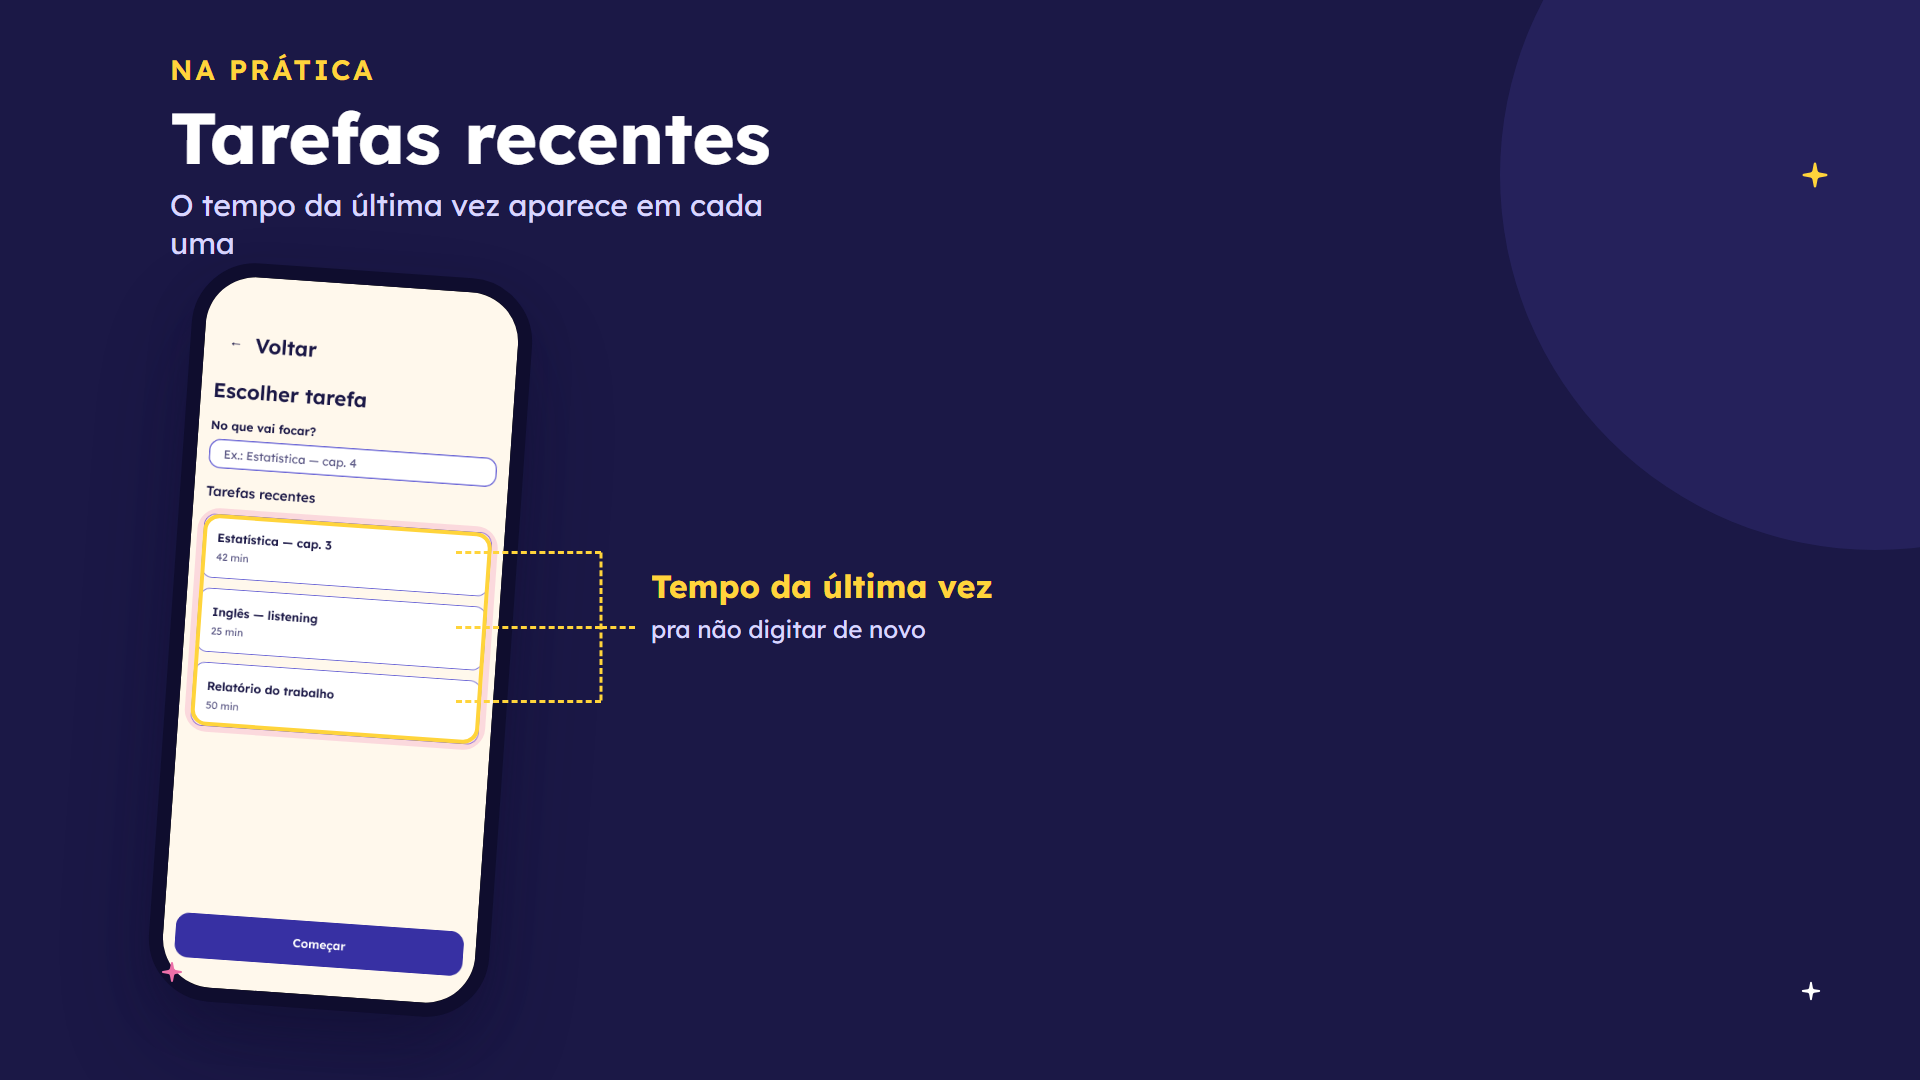
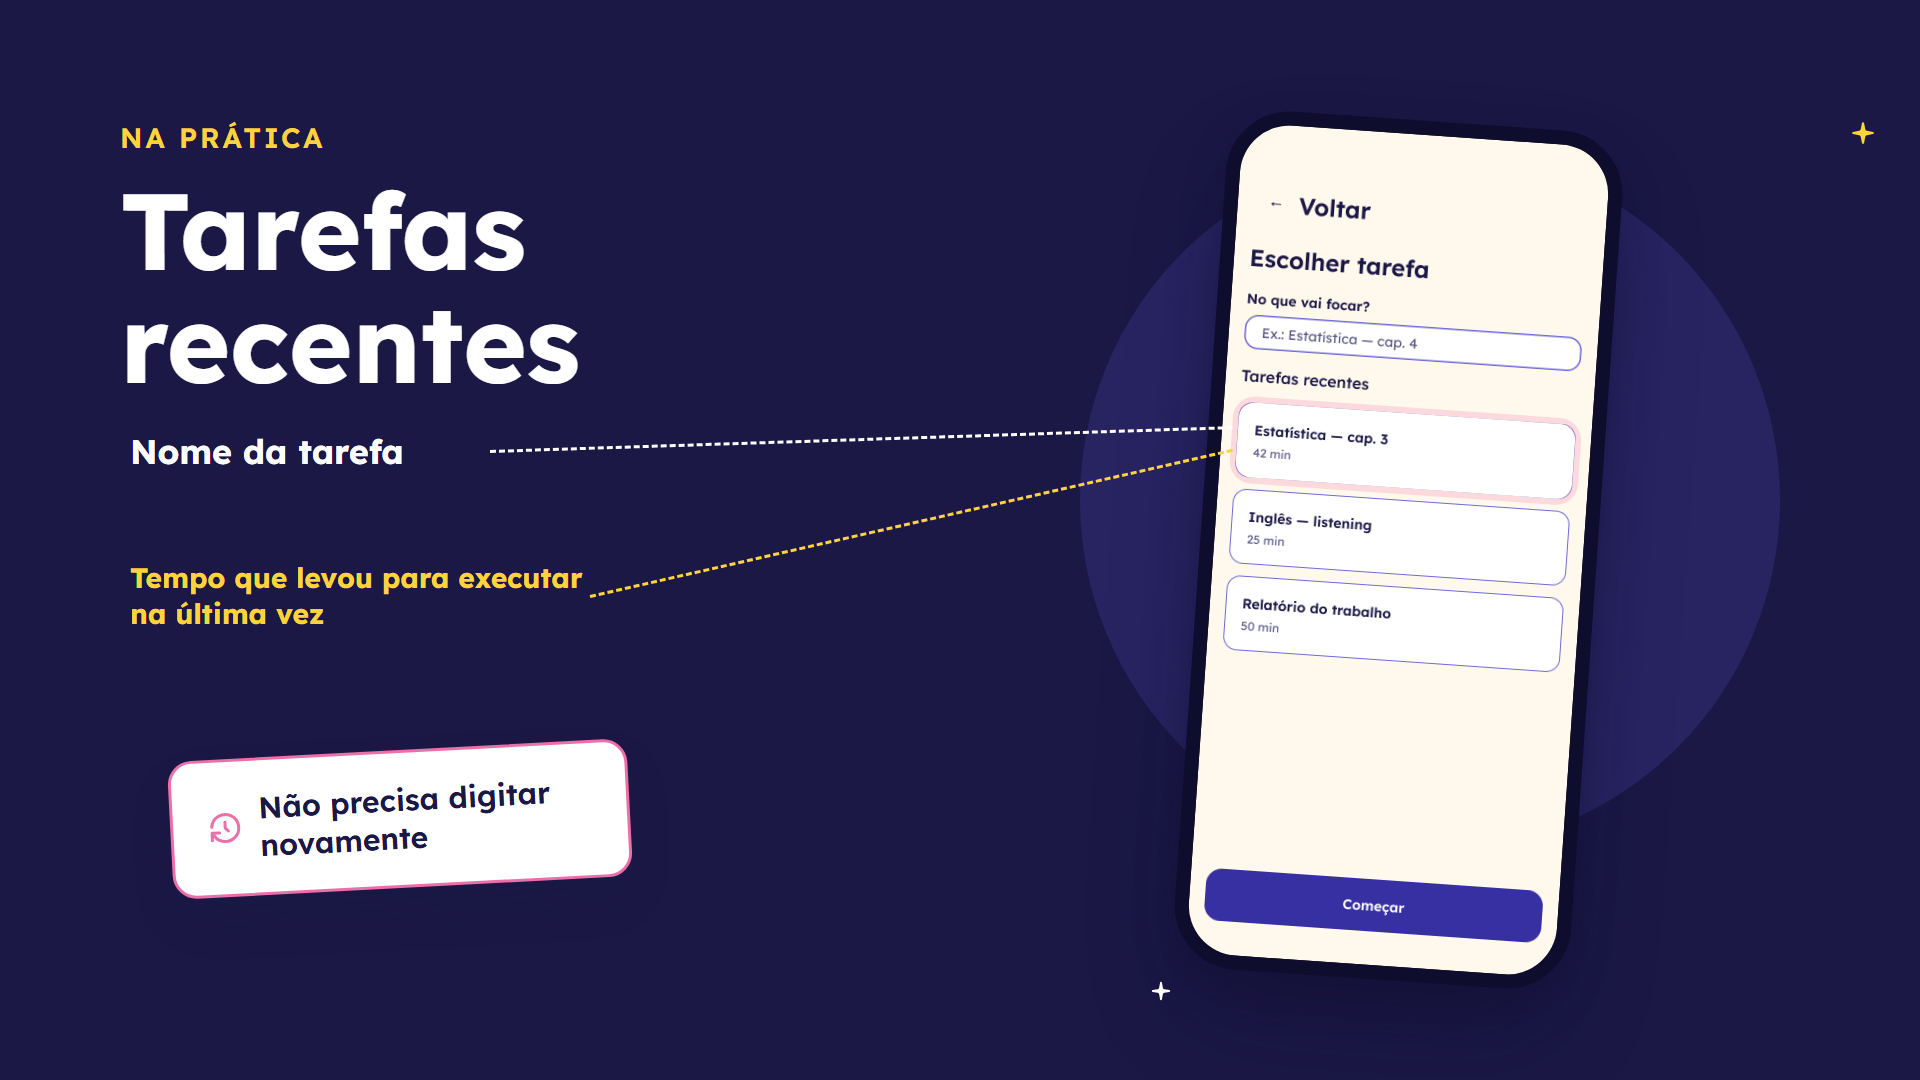
Reequilibra o slide da tela 03 e simplifica os indicadores
Layout invertido pro mesmo padrao do slide-06 (titulo a esquerda,
celular a direita), em vez de tudo amontoado do lado esquerdo.
Indicadores reduzidos a dois: "Nome da tarefa" e "Tempo que levou
para executar na ultima vez", cada um com sua propria seta. A frase
"Nao precisa digitar novamente" virou um balao flutuante a parte
(estilo do card "Retomar ->" do slide-06), sem seta.

Changed region(s): [[0.5625, 0.0917, 0.9375, 0.9167], [0.0625, 0.0306, 0.5312, 0.9472], [0.9375, 0.1528, 0.9688, 0.1833]]

diff --git a/video-editor/slides-src/anotar_tela02.py b/video-editor/slides-src/anotar_tela02.py
@@ -253,59 +253,48 @@ def build_slide_continuar_completo():
 # 5) Tela 03 - Escolher tarefa: tarefas recentes + indicadores de tempo
 # ---------------------------------------------------------------------------
 
-# Posicoes nativas da tela 03 (do get_metadata, node 43:31 / 50:43)
-LISTA_RECENTES = (24, 283, 342, 252)       # frame "Lista — Tarefas recentes" (3 cards)
-TEMPO_ROWS = [                               # linha "última vez: X min" em cada card
-    (41, 325, 308, 17),
-    (41, 413, 308, 17),
-    (41, 501, 308, 17),
-]
+# Posicoes nativas da tela 03 (do get_metadata, node 43:31 / 50:43), 1o card da lista
+CARD1 = (24, 283, 342, 76)       # Card/Tarefa "Estatística — cap. 3" (destaque)
+NOME_ROW = (41, 300, 308, 21)    # texto do nome da tarefa, dentro do card
+TEMPO_ROW = (41, 325, 308, 17)   # texto "última vez: X min", dentro do card
 
 
 def build_slide_tarefas_recentes():
-    phone_h = 740
-    phone_left, phone_top = 170, 270
-    phone_w = phone_geometry(phone_h)[0]
+    # layout igual ao slide-06: titulo na coluna esquerda, celular a direita
+    body = b.header("NA PRÁTICA", "eyebrow-estrela", "Tarefas<br>recentes", "noite")
+    body += b.bg_circle(150, 1080, 700, b.FORMA_NOITE, 0.7)
 
-    body = ""
-    body += b.bg_circle(-200, 1500, 750, b.FORMA_NOITE, 0.55)
-
-    body += f'''<div style="position:absolute; top:52px; left:{phone_left}px; font-family:'Lexend'; font-weight:600;
-      font-size:28px; letter-spacing:0.1em; text-transform:uppercase; color:{b.ESTRELA};">NA PRÁTICA</div>'''
-    body += f'''<div style="position:absolute; top:92px; left:{phone_left}px; font-family:'Lexend'; font-weight:700;
-      font-size:72px; color:#FFFFFF;">Tarefas recentes</div>'''
-    body += f'''<div style="position:absolute; top:186px; left:{phone_left}px; width:600px; font-family:'Lexend'; font-weight:400;
-      font-size:30px; color:#D9D6FF;">O tempo da última vez aparece em cada uma</div>'''
-
-    hi_box = to_box(*LISTA_RECENTES, height=phone_h)
+    hi_box = to_box(*CARD1)
     body += phone_with_highlight(
-        FIGMA / "tela-03-escolher-tarefa.png", hi_box,
-        hi_color=b.ESTRELA, top=phone_top, left=phone_left, height=phone_h,
+        FIGMA / "tela-03-escolher-tarefa.png", hi_box, hi_color="#FFFFFF",
     )
 
-    phone_right = phone_left + phone_w
-    bracket_x = phone_right + 90
-    label_x = bracket_x + 50
+    nome_x, nome_y, nome_w, nome_h = to_box(*NOME_ROW)
+    nome_target = (PHONE_LEFT + nome_x, PHONE_TOP + nome_y + nome_h / 2)
+    tempo_x, tempo_y, tempo_w, tempo_h = to_box(*TEMPO_ROW)
+    tempo_target = (PHONE_LEFT + tempo_x, PHONE_TOP + tempo_y + tempo_h / 2)
 
-    row_centers = []
-    for (x, y, w, h) in TEMPO_ROWS:
-        bx, by, bw, bh = to_box(x, y, w, h, height=phone_h)
-        cy = phone_top + by + bh / 2
-        row_centers.append(cy)
-        tick_start = phone_left + bx + bw
-        body += b.dashed_line_between(tick_start, cy, bracket_x, cy, b.ESTRELA, width=3)
+    # indicador 1: nome da tarefa
+    label1_left, label1_top, label1_w = 130, 430, 360
+    label1_cy = label1_top + 20
+    body += b.dashed_line_between(label1_left + label1_w, label1_cy, *nome_target, "#FFFFFF", width=3)
+    body += f'''<div style="position:absolute; top:{label1_top}px; left:{label1_left}px; width:{label1_w}px;
+      font-family:'Lexend'; font-weight:700; font-size:34px; color:#FFFFFF;">Nome da tarefa</div>'''
 
-    # "chave" ligando as 3 linhas a uma unica explicacao
-    body += b.dashed_line_between(bracket_x, row_centers[0], bracket_x, row_centers[-1], b.ESTRELA, width=3)
-    mid_y = row_centers[1]
-    body += b.dashed_line_between(bracket_x, mid_y, label_x - 16, mid_y, b.ESTRELA, width=3)
-    body += f'''<div style="position:absolute; top:{mid_y - 60}px; left:{label_x}px; width:420px;
-      font-family:'Lexend'; font-weight:700; font-size:32px; color:{b.ESTRELA}; line-height:1.25;">
-      Tempo da última vez<br><span style="font-weight:400; font-size:24px; color:#D9D6FF;">pra não digitar de novo</span></div>'''
+    # indicador 2: tempo que levou da ultima vez
+    label2_left, label2_top, label2_w = 130, 560, 460
+    label2_cy = label2_top + 35
+    body += b.dashed_line_between(label2_left + label2_w, label2_cy, *tempo_target, b.ESTRELA, width=3)
+    body += f'''<div style="position:absolute; top:{label2_top}px; left:{label2_left}px; width:{label2_w}px;
+      font-family:'Lexend'; font-weight:700; font-size:28px; color:{b.ESTRELA}; line-height:1.3;">
+      Tempo que levou para executar na última vez</div>'''
 
-    body += b.sparkle(160, 1800, 30, b.ESTRELA)
-    body += b.sparkle(980, 1800, 22, "#FFFFFF")
-    body += b.sparkle(960, 160, 24, b.ROSA)
+    # balao a parte, sem seta, so uma observacao flutuante (igual ao "Retomar →" do slide-06)
+    body += b.card(750, 170, b.icon("history", b.ROSA, 30) + "Não precisa digitar novamente",
+                   rotate_deg=-3, extra_class="borda-rosa", width=460)
+
+    body += b.sparkle(120, 1850, 26, b.ESTRELA)
+    body += b.sparkle(980, 1150, 22, "#FFFFFF")
 
     render(body, OUT_DIR / "tela-03-tarefas-recentes-slide.png")
 
